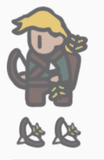
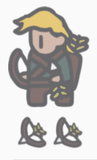
Legend of Hexdom: portraits cut from measured bounds; status and roadmap after playtest 2
- Each portrait gets a box centred on its own art, measured from the card's ink columns: the shared
  box cut the Mage's staff and caught her "E" and red diamond. Only the three portraits change.
- CLAUDE.md status, SPEC (waiting points dropped at all-12), and ROADMAP's short list for the Game
  Director: the iPad retry, two taste calls, and the release call, which the tech lead recommends.

Claude-Session: https://claude.ai/code/session_01RMTQQbtgMEPN4Rw3UKF3BH

Changed region(s): [[0.0619, 0.0312, 0.9278, 0.6875], [0.1546, 0.7188, 0.866, 0.9375]]

diff --git a/games/legend-of-hexdom/ROADMAP.md b/games/legend-of-hexdom/ROADMAP.md
@@ -11,40 +11,48 @@ decisions that are theirs to be kept here, short.
 1. **Play a round on the iPad and say if it's better.** New since your try: after travelling, you tap
    the lit cell itself (each says what it does); skills say how they work and sit under "Skills";
    while drawing a path the cells show where you'd land and green dots show where the die can end;
-   "Tables, Bosses, Gifts" opens the whole sidesheet; Treasures are the sheet's own pictures.
+   "Tables, Bosses, Gifts" opens the whole sidesheet; Treasures are the sheet's own pictures; the Boss
+   strip marks the Bosses you could beat right now; under the map, how many Castles are still unvisited.
 2. **Taste: redraw the table cells cleaner?** The Art Director's suggestion: keep the publisher's
    pictures, rebuild the requirement boxes, numbers and loot icons crisp from the data (text set by
    code, never by a model). More legible, a little less "printed". Yes or no.
 3. **Taste: frames and colours closer to the sheet?** Dark header bars and squarer boxes like the
    printed panels; and either keep the current colours (yellow = selected, green = where you can go,
    blue = your ink) or go charcoal ink with muted previews. Keep, or which.
-4. **When it's a release** - your call (stage 5c). The first playtest's nine findings are fixed; a
-   second playtest (the Archer and the Warrior) runs overnight.
-5. **FYI, no decision needed:** the first playtester never wanted to leave a die unused, so your
-   ruling A ("both dice mandatory") looks moot in practice. And the Mage is much the strongest of the
-   three: 19% wins for the bot against 3% for the Archer and the Warrior - the publisher's design, not
-   ours to change, but you may want to know before choosing who to play.
+4. **Release: your call (stage 5c). I recommend yes.** Two playtests played four games and won all
+   three that finished, one with each character. Their 13 findings are fixed. None was a rule error.
+   What isn't done: the two taste questions above, and the Art Director's polish.
+5. **FYI, no decision needed:**
+   - Ruling A ("both dice mandatory") never got in the way in either playtest.
+   - The bot found a real bug the playtests didn't hit, now fixed. With all three attributes at 12, a
+     point still waiting to be placed could never be placed, and the game waited forever.
+   - Difficulty, measured over 900 bot games: the Mage is clearly the easiest, then the Archer, then
+     the Warrior (numbers in `playtest/notebook.md`). That's the publisher's design. The bot is
+     weaker than a careful player, so these are floors.
 
 ## Stage 3: UI
 
-- The Game Director's first try (2026-11-28): hexes easy to tap; cells readable but could be better
-  (to the Art Director at stage 4); skills hard to find, travel hard to plan without the whole
-  tables, Treasure choice as text - all three addressed the same night.
+- Waiting on the Game Director's second try on the iPad (list item 1).
 
 ## Stage 4: art
 
 - With the Art Director: the pen marks (path, slashes, crosses) in the sheet's ink, the type, the
   frames; the sizes and encoding of the extracted art at the sizes the layout gives them.
-- The Mage portrait's crop catches a sliver of the card's red diamond.
 
 ## Stage 5b: playtest
 
-- First playtest done 2026-11-28 (`playtest/reports/2026-11-28-1.md`): the Mage won on map 2 in round
-  14 (score 145); nine findings, all fixed the same night. On ruling A it never wanted to leave a die
-  unused. A second run (the Archer on map 1, then the Warrior on map 3) is under way.
-- Measured with the playtester's strategy (`playtest/notebook.md`): Mage 19%, Archer 3%, Warrior 3%
-  over 300 bot games; the bot understates a careful player (it doesn't plan the Boss round). Teach it
-  rules 13-14 and the Warrior's Adrenaline play, then measure again.
+- Two playtests on 2026-11-28 (`playtest/reports/2026-11-28-1.md`, `-2.md`). They played four games
+  and won the three that finished: the Mage on map 2 in round 14, score 145; the Archer on map 1 and
+  the Warrior on map 3, both in round 16, score 130. All 13 findings are fixed, and the three wins
+  replay as regression tests.
+- The bot plays the second notebook's strategy (`playtest/notebook.md`, "Measured by the engineers").
+  Still open there:
+  - the notebook's open questions, as simulations;
+  - the Warrior's Adrenaline play;
+  - the approach to the Boss Castle, which the bot does only roughly.
+- Friction the playtesters raised, not yet changed:
+  - six separate taps for six Cross Trainings;
+  - hex names appear only in tooltips on the map.
 
 ## Later
 

diff --git a/games/legend-of-hexdom/CLAUDE.md b/games/legend-of-hexdom/CLAUDE.md
@@ -10,12 +10,17 @@ campaigns of one game, not three games, so a campaign will be data here, not a s
 
 ## Status
 
-**Where it stands (2026-11-28, overnight).** Stage 3 (UI) done and tried on the iPad by the Game
-Director; their feedback (skills hard to find, travel hard to plan, Treasure choice as text) fixed the
-same night. Stage 4 (art) under way: the Art Director's review of the screens at play size is in
-`art/decisions.md`; its usability items are built, its taste items wait for the Game Director. Stage 5:
-on the shelf with an "In development" ribbon. Stage 5b: the first playtest is running. Open decisions
-for the Game Director: `ROADMAP.md`, "Waiting on you".
+**Where it stands (2026-11-28, overnight).**
+- **Stage 3 (UI):** done. The Game Director tried it on the iPad, and the three things they flagged
+  were fixed the same night: skills hard to find, travel hard to plan, Treasure choice as text.
+- **Stage 4 (art):** under way. The Art Director's review of the screens at play size is in
+  `art/decisions.md`. Its usability items are built; its taste items wait for the Game Director.
+- **Stage 5:** on the shelf with an "In development" ribbon.
+- **Stage 5b:** two playtests played four games and won the three that finished, one with each
+  character (`playtest/reports/`). All 13 findings are fixed, and the three wins replay as tests.
+  The bot plays the second playtest's strategy; its numbers are in `playtest/notebook.md`.
+- **Open decisions for the Game Director,** the release call among them: `ROADMAP.md`, "Waiting on
+  you".
 
 **The UI:** the board is the A5 map with the player's pen marks drawn over it in SVG (path, arrows,
 the start X, a red leg for an unstuck crossing); the middle column is the turn (dice, the next step,
@@ -24,7 +29,9 @@ Adventure cells of the current hex, scaled to the space left. After travelling, 
 are the buttons: each says what it will do, an enemy with two requirements offers one button per
 requirement, and "Show as a list" gives the same choices as a list. While a path is drawn the cells
 show its end, and green dots on the map show where the die can end; the right column is the character sheet
-with paper marks, the Boss and Gift strips, and the log, newest first. The art is a provisional cut
+with paper marks, the Boss strip (Bosses beatable now are marked live) and the Gift strip, and the
+log, newest first. Under the map, the score if you won now and the Castles not yet visited, which is
+the game's real clock (playtest 2). The art is a provisional cut
 (`tools/extract_art.mjs`); stage 4 settles sizes and encoding with the Art Director.
 
 **Checking screens:** `tools/drive.mjs <outDir> [state.json...]` plays the built game in Chrome at
@@ -32,10 +39,8 @@ the three sizes, mid-game and from saved positions, and fails on a console error
 scrolls, or printed cells overflowing their panel (proved able to fail by breaking the layout).
 
 **Shelf features:** saves (`@pnp/kit/save`), cloud sync (`@pnp/kit/cloudSave`), playtest mode's
-save key and no sync (`?playtest=1`), undo cleared at each roll, manual dice, export and import,
-How to play, the shelf link, the build marker. Not yet: the playtest journal and step counter
-(stage 5b). Stage 0 (intake) done the same day. No code and no
-`package.json` yet, so this folder is not an npm workspace and the build ignores it.
+save key and no sync (`?playtest=1`), the playtest journal and step counter, undo cleared at each
+roll, manual dice, export and import, How to play, the shelf link, the build marker.
 
 ## Rulings and scope
 

diff --git a/games/legend-of-hexdom/SPEC.md b/games/legend-of-hexdom/SPEC.md
@@ -119,7 +119,9 @@ of that kind are lost.
 **Paying.** A food cost slashes painted food; any food that can't be paid is a lost heart each
 (p14, p35). A heart cost or damage crosses hearts. **Gaining** food paints the next diamond;
 gaining a heart paints the next heart; an attribute point fills the next ring (choice of attribute
-for `+`), and is ignored past 12 (p22).
+for `+`), and is ignored past 12 (p22). Points waiting to be placed are ignored the moment all
+three attributes are at 12, however they got there (a Relic box can fill all three while a point
+waits behind its gem), so a point never waits for a ring that cannot exist.
 
 **Gems** (p19): when gained, immediately either put it in the Relic box (if there is room) or trade
 it for the sidesheet's reward. The moment the Relic box is full, gain its reward.
